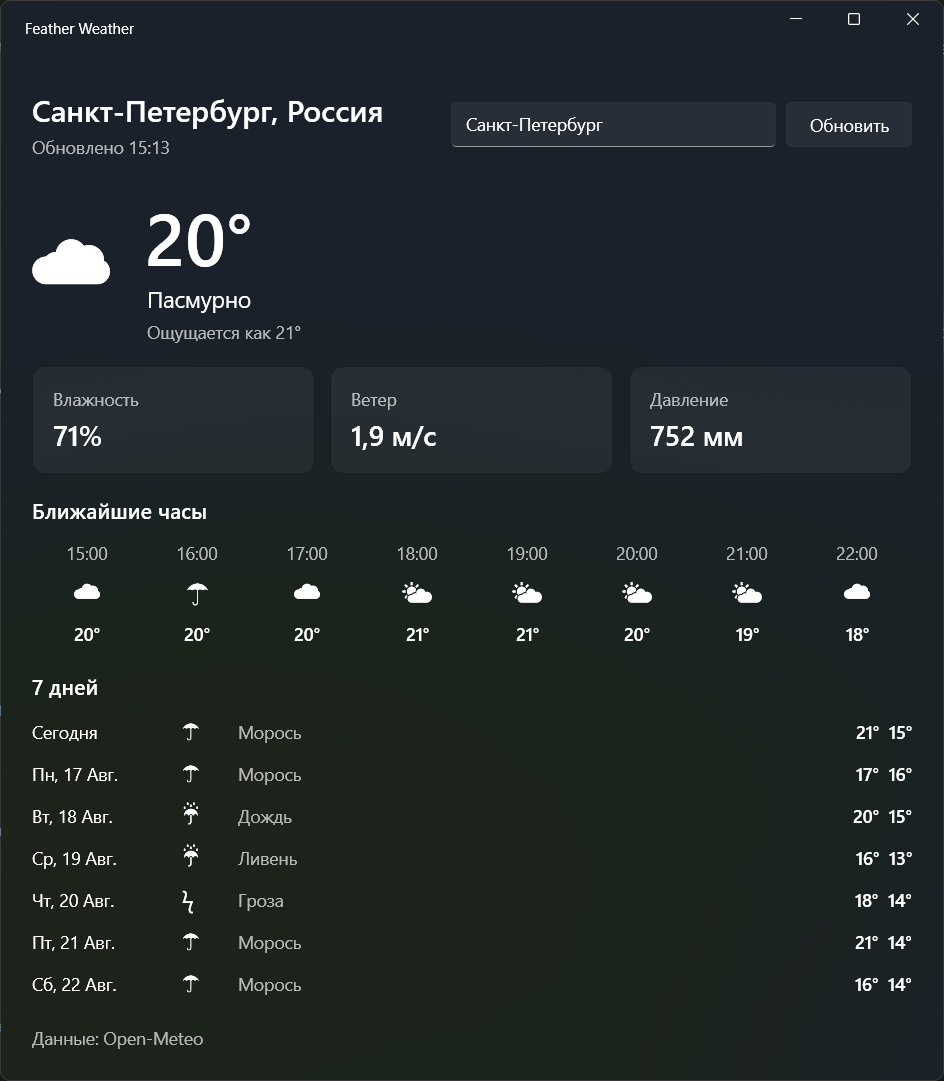
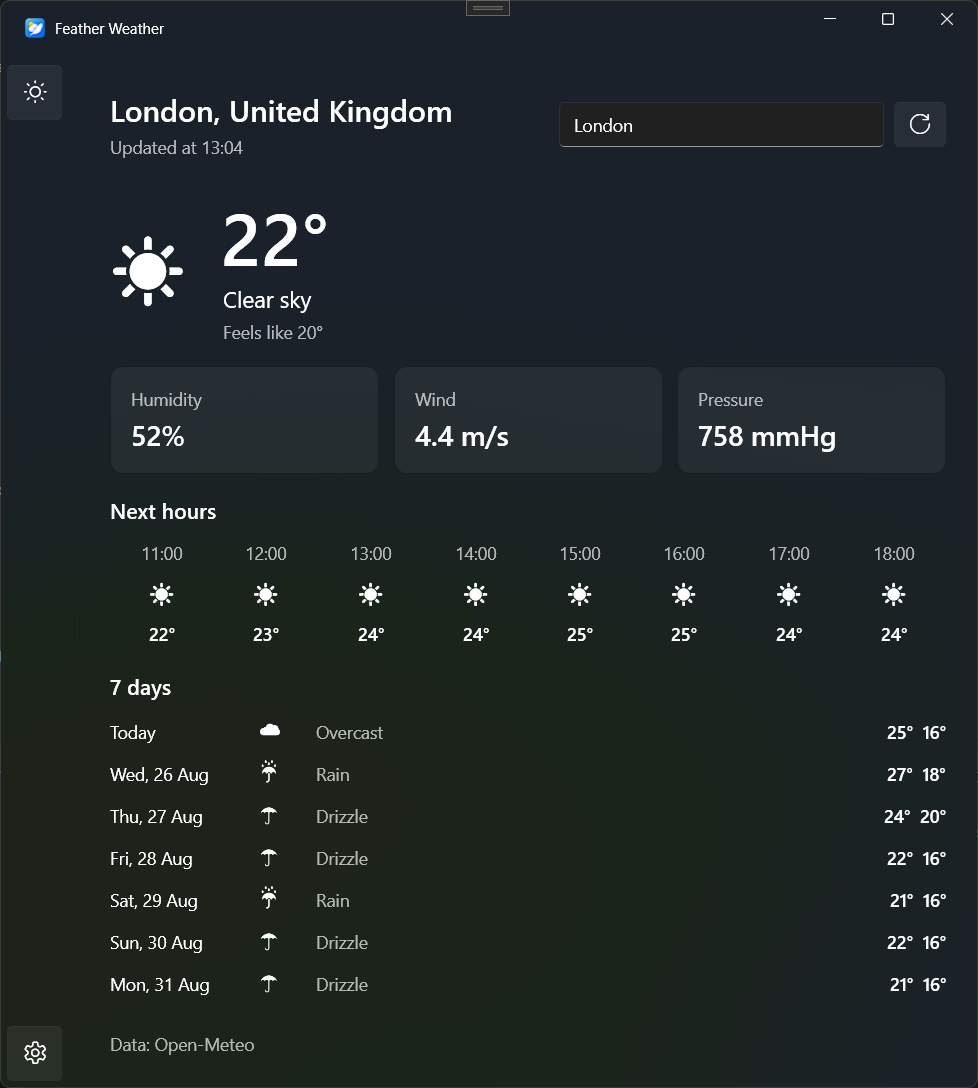
Refactoring, updated app.png and readme

diff --git a/FeatherWeather/ViewModels/MainViewModel.cs b/FeatherWeather/ViewModels/MainViewModel.cs
@@ -21,22 +21,8 @@ internal sealed partial class MainViewModel : ObservableObject, IDisposable
     private bool _isApplyingSuggestion;
     private bool _initialized;
 
-    public MainViewModel(
-        WeatherCache weatherCache,
-        WeatherService weatherService,
-        SettingsService settingsService)
-    {
-        this.weatherCache = weatherCache;
-        this.weatherService = weatherService;
-        this.settingsService = settingsService;
-        _city = string.IsNullOrWhiteSpace(settingsService.City)
-            ? Strings.DefaultCity
-            : settingsService.City;
-        LocalizationManager.Instance.CultureChanged += OnCultureChanged;
-    }
-
     [ObservableProperty]
-    private string _city = Strings.DefaultCity;
+    public partial string City { get; set; } = Strings.DefaultCity;
 
     [ObservableProperty]
     public partial IReadOnlyList<GeoResult> CitySuggestions { get; set; } = [];
@@ -84,7 +70,21 @@ internal sealed partial class MainViewModel : ObservableObject, IDisposable
     public partial IReadOnlyList<DayItem> DailyItems { get; set; } = [];
 
     [ObservableProperty]
-    private bool _isSettingsVisible;
+    public partial bool IsSettingsVisible { get; set; }
+
+    public MainViewModel(
+        WeatherCache weatherCache,
+        WeatherService weatherService,
+        SettingsService settingsService)
+    {
+        this.weatherCache = weatherCache;
+        this.weatherService = weatherService;
+        this.settingsService = settingsService;
+        City = string.IsNullOrWhiteSpace(settingsService.City)
+            ? Strings.DefaultCity
+            : settingsService.City;
+        LocalizationManager.Instance.CultureChanged += OnCultureChanged;
+    }
 
     public async Task InitializeAsync()
     {

diff --git a/README.md b/README.md
@@ -2,6 +2,9 @@
 
 Feather Weather is a small, lightweight weather app for Windows built with WPF. It is designed for fast startup and a low memory footprint without sacrificing the essentials of a desktop forecast.
 
+## Screenshots
+![Alt text](images/app.png "App")
+
 ## Features
 
 - Search for weather by city name
